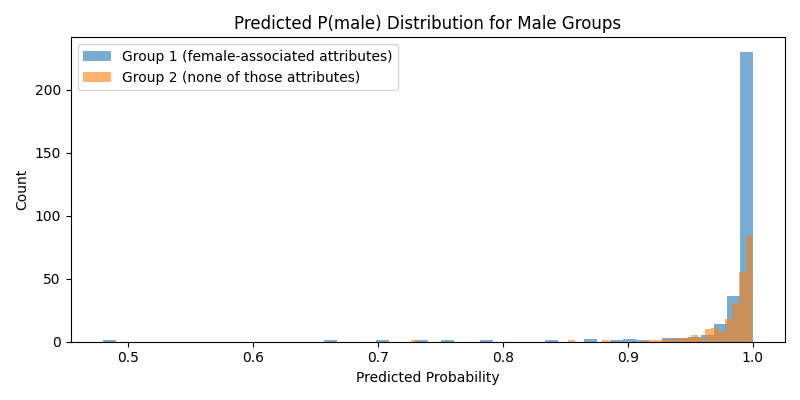
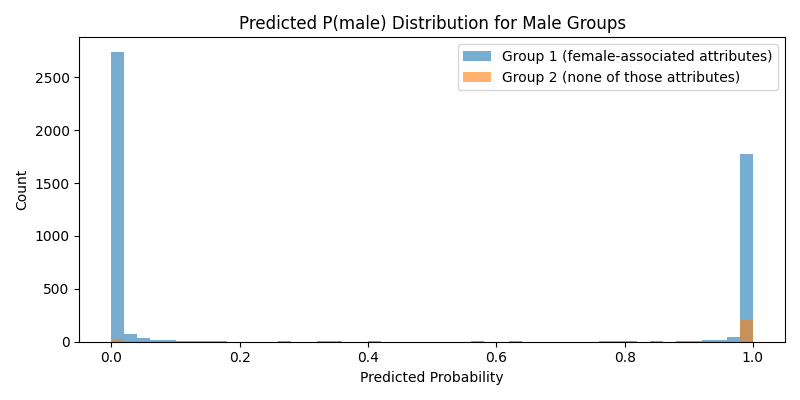
more testing

diff --git a/janines_testcode/debias.py b/janines_testcode/debias.py
@@ -44,6 +44,7 @@ clip_embs, attr_mat, idx_list, attr_names = get_all_embeddings_and_attrs(dataset
 idx_young      = attr_names.index("Young")
 idx_attractive = attr_names.index("Attractive")
 idx_beard      = attr_names.index("No_Beard")
+temp           = attr_names.index("Gray_Hair")
 
 mu_young_pos      = X[attr_mat[:, idx_young] == 1].mean(axis=0)   #u⁺
 mu_young_neg      = X[attr_mat[:, idx_young] == 0].mean(axis=0)   #u⁻
@@ -51,33 +52,40 @@ mu_attr_pos       = X[attr_mat[:, idx_attractive] == 1].mean(axis=0)
 mu_attr_neg       = X[attr_mat[:, idx_attractive] == 0].mean(axis=0)
 mu_beard_pos      = X[attr_mat[:, idx_beard] == 1].mean(axis=0)   #u⁺
 mu_beard_neg      = X[attr_mat[:, idx_beard] == 0].mean(axis=0)   #u⁻
+mu_temp_pos      = X[attr_mat[:, temp] == 1].mean(axis=0)   #u⁺
+mu_temp_neg      = X[attr_mat[:, temp] == 0].mean(axis=0)   #u⁻
 
 v_young      = mu_young_pos - mu_young_neg
 v_attractive = mu_attr_pos  - mu_attr_neg
 v_beard = mu_beard_pos - mu_beard_neg
+v_temp = mu_temp_pos - mu_temp_neg
 
 #stupid pythonnn typinngggg
 v_young      = v_young.astype(np.float32)
 v_attractive = v_attractive.astype(np.float32)
 v_beard = v_beard.astype(np.float32)
+v_temp = v_temp.astype(np.float32)
 
 v_young      /= np.linalg.norm(v_young)
 v_attractive /= np.linalg.norm(v_attractive)
 v_beard /= np.linalg.norm(v_beard)
+v_temp /= np.linalg.norm(v_temp)
 
-B = np.stack([v_young, v_attractive, v_beard], axis=1)    #(D, 2)
-Q, _ = np.linalg.qr(B)                           #Q: (D, 2) orthonormal
-bias_basis = Q.T                                 #(2, D)
+#B = np.stack([v_young, v_attractive, v_beard], axis=1)    #(D, 3) D = direction\
+B = np.stack([v_temp], axis=1)
+Q, _ = np.linalg.qr(B)                           #Q: (D, 3) orthonormal
+bias_basis = Q.T                                 #(3, D)
 
 X_hard_yt = hard_debias(X, bias_basis)
-X_soft_yt = soft_debias(X, bias_basis, lam=3.5)
+X_soft_yt = soft_debias(X, bias_basis, lam=7.5)
 
-clf, X_train, X_test, y_train, y_test, y_pred, misclassified_indices = train_gender_classifier(X_soft_yt, gender_labels)
+clf, X_train, X_test, y_train, y_test, y_pred, misclassified_indices = train_gender_classifier(X_hard_yt, gender_labels)
 
 gender_classifier_accuracy(clf, X_train, y_train, X_test, y_test)
 eval_classifier(y_test, y_pred)
 
 compare_male_groups_ttest(clf, X_soft_yt, attr_mat, attr_names)
+
 
 """
 base:

diff --git a/janines_testcode/attribute_bias_analysis.py b/janines_testcode/attribute_bias_analysis.py
@@ -7,25 +7,28 @@ import matplotlib.pyplot as plt
 
 def compare_male_groups_ttest(clf, clip_embeddings, attr_matrix, attr_names):
     male_idx = attr_names.index("Male")
-    no_beard_idx = attr_names.index("No_Beard")
-    attractive_idx = attr_names.index("Attractive")
-    young_idx = attr_names.index("Young")
+    no_beard_idx = attr_names.index("No_Beard") #fem alligned
+    attractive_idx = attr_names.index("Attractive") #fem alligned
+    young_idx = attr_names.index("Young")   #fem alligned
+    temp_idx = attr_names.index("Gray_Hair")  #male alligned
 
     # Group 1: male & no beard & attractive & young
     mask_group1 = (
-        (attr_matrix[:, male_idx] == 1) &
-        (attr_matrix[:, no_beard_idx] == 1) &
-        (attr_matrix[:, attractive_idx] == 1) &
-        (attr_matrix[:, young_idx] == 1)
+       #( attr_matrix[:, male_idx] == 1) &
+       # (attr_matrix[:, no_beard_idx] == 1) &
+       # (attr_matrix[:, attractive_idx] == 1) &
+       # (attr_matrix[:, young_idx] == 1)
+       (attr_matrix[:, temp_idx] == 0)
     )
     idxs_group1 = np.where(mask_group1)[0]
 
     # Group 2: male & no no_beard & no attractive & no young
     mask_group2 = (
-        (attr_matrix[:, male_idx] == 1) &
-        (attr_matrix[:, no_beard_idx] == 0) &
-        (attr_matrix[:, attractive_idx] == 0) &
-        (attr_matrix[:, young_idx] == 0)
+        #(attr_matrix[:, male_idx] == 1) &
+        #(attr_matrix[:, no_beard_idx] == 0) &
+        #(attr_matrix[:, attractive_idx] == 0) &
+        #(attr_matrix[:, young_idx] == 0)
+        (attr_matrix[:, temp_idx] == 1)
     )
     idxs_group2 = np.where(mask_group2)[0]
 
